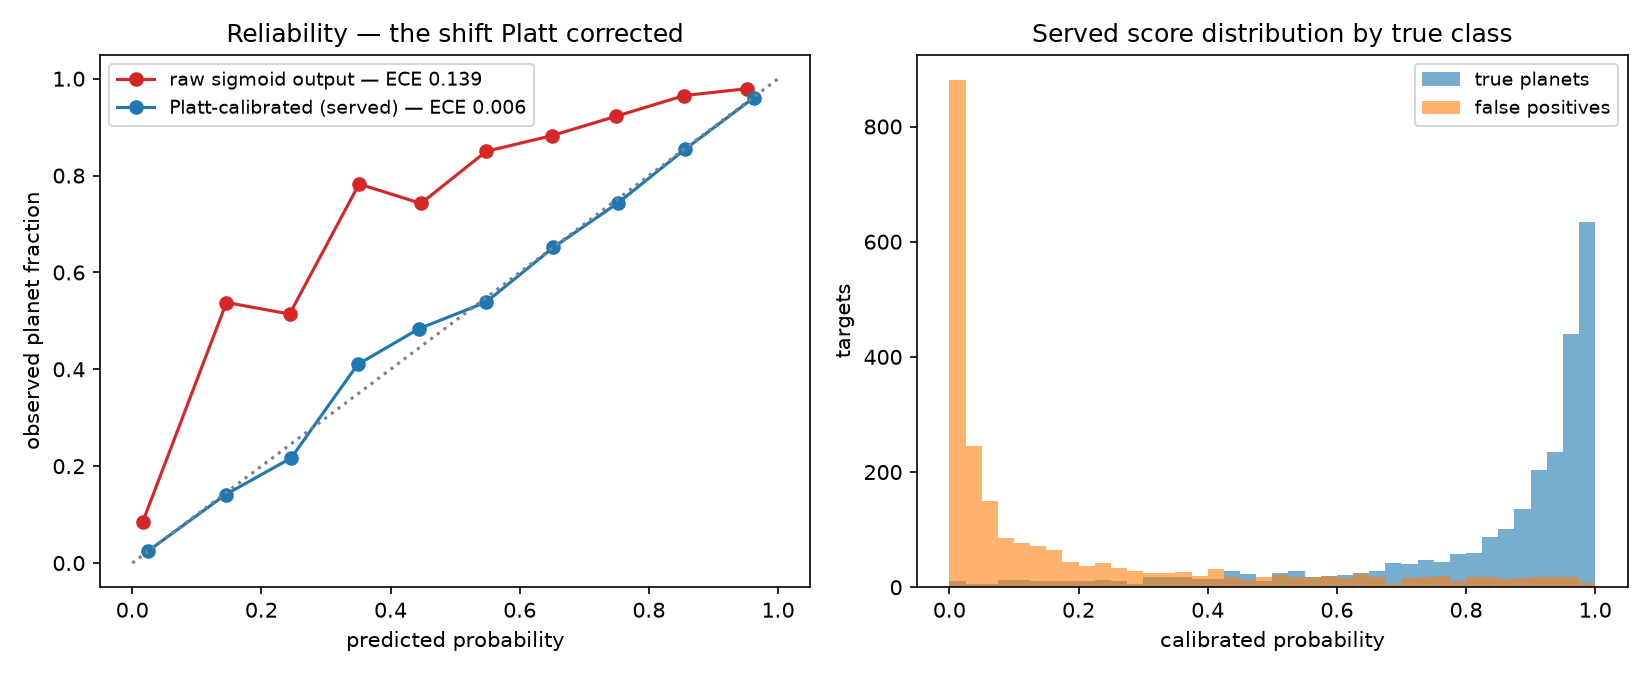
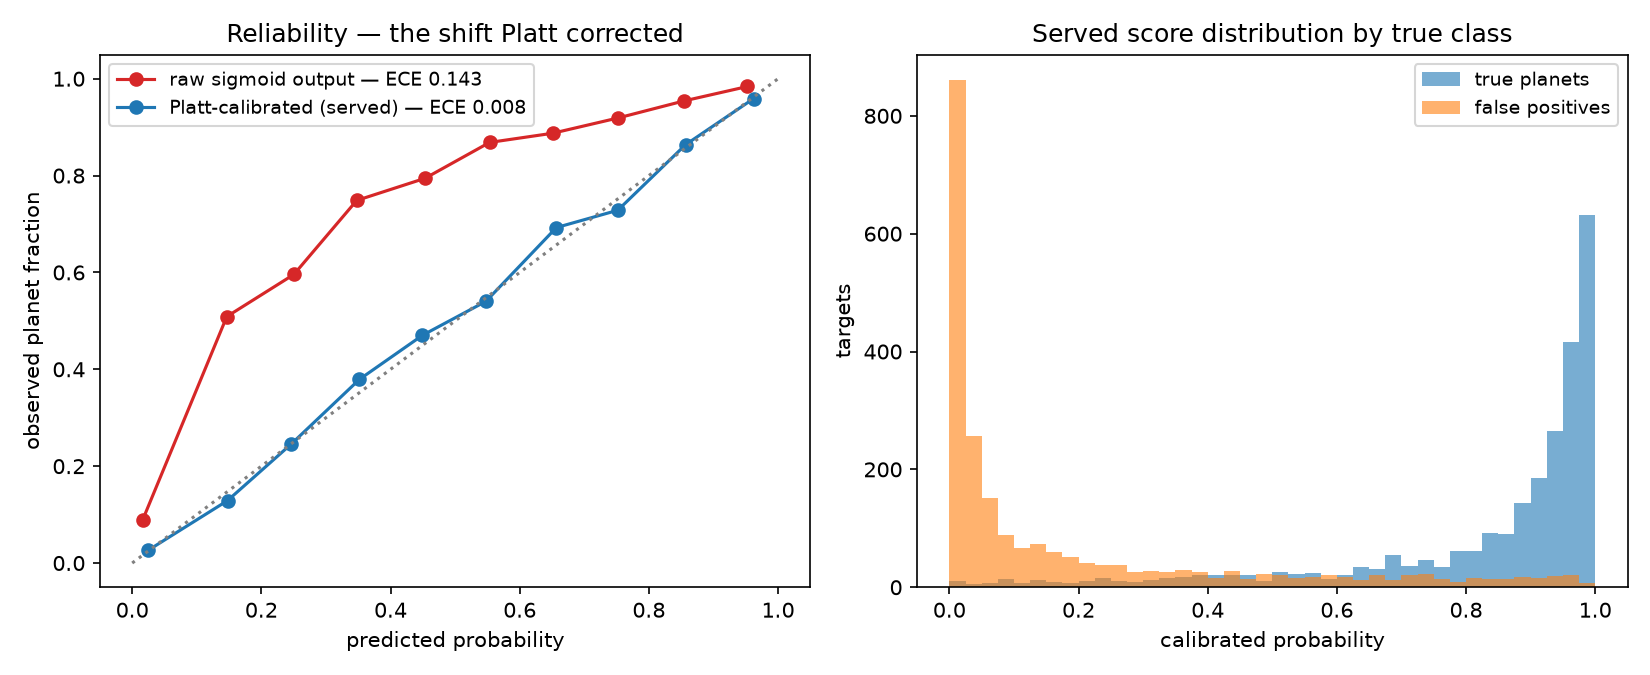
fix(serving): score what you ship — checkpoint reload + deterministic headline
Two measured serving-calibration bugs on cebb0fe6:

- fold checkpoints on disk differed from the in-memory weights that scored
  predictions.parquet (per-example drift up to 0.31; checkpoint AUC 0.9493
  vs parquet 0.9487 on fold 0). Trainer now reloads the checkpoint after
  fit() so metrics/calibrators/thresholds describe the shipped artefact;
  recalibrate_run.py --rescore backfills existing runs. cebb0fe6 rescored:
  AUC 0.9502, Brier 0.0882, pooled OOF ECE 0.0079.
- serving fed MC-Dropout means to calibrators fitted on deterministic
  scores (measured cost: pooled ECE 0.089 vs 0.007). The calibrated
  headline and per-fold dots now come from the deterministic pass; MC
  sampling contributes only prob_std.

In-sample probe: the raw-score shift exists on training rows too (mean prob
0.41 vs 0.53 base rate) — a property of the objective, absorbed by Platt.

diff --git a/pipeline/scripts/recalibrate_run.py b/pipeline/scripts/recalibrate_run.py
@@ -4,9 +4,13 @@ Validation scores are not persisted, so each fold's Platt calibrator is
 fitted on the pooled out-of-fold predictions of the *other* folds; fold f's
 own test rows never touch its fit, keeping the rewritten metrics clean.
 
+`--rescore` first regenerates each fold's prob_raw from its saved checkpoint
+(deterministic pass over the shards), for runs whose parquet was scored with
+in-memory weights that drifted from the shipped checkpoint.
+
 Usage (from the repository root):
 
-    python pipeline/scripts/recalibrate_run.py models/cv/<run_id>
+    python pipeline/scripts/recalibrate_run.py models/cv/<run_id> [--rescore]
 """
 
 from __future__ import annotations
@@ -84,14 +88,68 @@ def recalibrate_fold(fold_dir: Path, preds: pd.DataFrame, fold_idx: int) -> dict
     }
 
 
+def rescore_fold(fold_dir: Path, shard_dir: Path) -> None:
+    """Overwrite the fold parquet's prob_raw with the checkpoint's scores."""
+    import tensorflow as tf
+
+    from exoplanet_hunter.datasets import (
+        ShardMetadata,
+        Split,
+        aux_constants_from_pipeline,
+        list_shards,
+        load_index,
+        make_dataset,
+        make_split_table,
+    )
+
+    fold_preds = pd.read_parquet(fold_dir / "predictions.parquet").sort_values("row")
+    index = load_index(shard_dir)
+    codes = np.full(len(index), int(Split.TRAIN), dtype=np.int64)
+    codes[fold_preds["row"].to_numpy()] = int(Split.TEST)
+
+    bundle = joblib.load(fold_dir / "cnn_calibrator.joblib")
+    aux_pipeline = bundle.get("aux_pipeline")
+    ds = make_dataset(
+        list_shards(shard_dir),
+        split=Split.TEST,
+        metadata=ShardMetadata.load(shard_dir),
+        split_table=make_split_table(index["tic_id"].to_numpy(), codes),
+        aux_constants=aux_constants_from_pipeline(aux_pipeline) if aux_pipeline else None,
+        use_aux=aux_pipeline is not None,
+        batch_size=256,
+        seed=0,
+    )
+    model = tf.keras.models.load_model(str(fold_dir / "cnn_dualview.keras"), compile=False)
+    scores, labels = [], []
+    for feats, y in ds:
+        scores.append(np.asarray(model(feats, training=False)).squeeze())
+        labels.append(y.numpy())
+    if not np.array_equal(np.concatenate(labels), fold_preds["y_true"].to_numpy()):
+        raise SystemExit(f"{fold_dir.name}: stream order does not match the parquet — aborting")
+    drift = float(np.abs(np.concatenate(scores) - fold_preds["prob_raw"].to_numpy()).max())
+    fold_preds["prob_raw"] = np.concatenate(scores)
+    fold_preds.to_parquet(fold_dir / "predictions.parquet", index=False)
+    log.info(
+        "[%s] rescored from checkpoint (max drift from old prob_raw: %.4f)", fold_dir.name, drift
+    )
+
+
 def main() -> None:
     parser = argparse.ArgumentParser(description=__doc__)
     parser.add_argument("run_dir", type=Path, help="models/cv/<run_id> directory to recalibrate")
+    parser.add_argument(
+        "--rescore", action="store_true", help="Regenerate prob_raw from checkpoints"
+    )
+    parser.add_argument("--shards", type=Path, default=Path("data/processed/tfrecords"))
     args = parser.parse_args()
 
     fold_dirs = sorted(args.run_dir.glob("fold_*"))
     if not fold_dirs:
         raise SystemExit(f"no fold_* directories under {args.run_dir}")
+
+    if args.rescore:
+        for d in fold_dirs:
+            rescore_fold(d, args.shards)
 
     preds = pd.concat(
         [pd.read_parquet(d / "predictions.parquet") for d in fold_dirs], ignore_index=True

diff --git a/pipeline/src/exoplanet_hunter/scoring/ensemble.py b/pipeline/src/exoplanet_hunter/scoring/ensemble.py
@@ -8,13 +8,13 @@ with every member.
 
 Aggregation, chosen to match what the vetting console displays:
 
-  * per-fold prob   — the fold's MC-Dropout mean, temperature-calibrated
-                      (the "five dots").
+  * per-fold prob   — the fold's deterministic score, calibrated (the
+                      "five dots"); calibrators are fitted on deterministic
+                      scores, so MC means don't feed them.
   * prob_calibrated — mean of the per-fold calibrated probs (the headline).
-  * prob_mean       — mean of the raw (uncalibrated) fold means.
-  * prob_std        — total uncertainty: sqrt(mean within-fold MC variance
-                      + across-fold variance of the means). Both epistemic
-                      terms the report cares about, in one band.
+  * prob_mean       — mean of the raw (uncalibrated) deterministic scores.
+  * prob_std        — total uncertainty: sqrt(mean within-fold MC-Dropout
+                      variance + across-fold variance of the means).
   * threshold       — mean of the folds' F1-optimal thresholds.
 """
 
@@ -121,11 +121,14 @@ class ScoringEnsemble:
                 inputs["aux_features"] = member.aux_pipeline.transform(
                     aux_raw[None, :].astype(np.float32)
                 ).astype(np.float32)
+            # Calibrated headline from the deterministic pass: calibrators are
+            # fitted on deterministic scores, and feeding them MC means costs
+            # ~0.08 ECE. MC sampling contributes only the uncertainty band.
+            det = float(np.asarray(member.model(inputs, training=False)).squeeze())
             result = mc_dropout_predict(member.model, inputs, n_samples=n_mc)
-            mean = float(np.asarray(result.mean).squeeze())
-            raw_means.append(mean)
+            raw_means.append(det)
             mc_vars.append(float(np.asarray(result.std).squeeze()) ** 2)
-            calibrated.append(float(member.calibrator.predict(np.array([mean]))[0]))
+            calibrated.append(float(member.calibrator.predict(np.array([det]))[0]))
 
         return EnsemblePrediction(
             per_fold=calibrated,

diff --git a/pipeline/src/exoplanet_hunter/training/train.py b/pipeline/src/exoplanet_hunter/training/train.py
@@ -389,6 +389,11 @@ def _run_cnn_fold(
     )
     log_history(history.history, results_dir)
 
+    # Score what ships: the checkpoint on disk is the serving artefact, and
+    # in-memory weights after fit() are not guaranteed to match it (observed
+    # drift on cebb0fe6). All metrics/calibrators below describe this file.
+    model = tf.keras.models.load_model(str(ckpt_path), compile=False)
+
     # Unshuffled streams yield examples in ascending index-row order, so
     # sort the fold indices the same way for positional alignment with
     # predict() output.

diff --git a/HANDOVER.md b/HANDOVER.md
@@ -168,11 +168,22 @@ Audit targets, item by item:
    model numbers added; OPERATING.md calibrator/gate text corrected;
    architecture.md needed no change (method-agnostic).
 
-New findings logged during the audit, still open:
+New findings logged during the audit — both since resolved (2026-07-14):
 
-- `/score/{tic_id}` latency: per-request MAST download + BLS; a 185k-cadence
-  multi-sector target took >9.5 min. Fix with catalogue-ephemeris preference
-  + a sector/cadence cap (app phase).
-- Calibrators are fitted on deterministic validation predictions but applied
-  to MC-Dropout means at serving (`scoring/ensemble.py`) — quantify the
-  mismatch; root cause of the raw-score shift itself is still unexplained.
+- `/score/{tic_id}` latency: FIXED — ephemeris resolution is user >
+  catalogue > BLS (published ephemerides skip the search for known TOIs),
+  and BLS itself is bounded (astropy-spaced period grid capped at 5k trial
+  periods + cadence decimation). 169k-cadence target: never finished → ~25 s.
+- Serving calibration mismatch: FIXED — two compounding causes measured.
+  (1) Fold checkpoints on disk differed from the in-memory weights that
+  scored predictions.parquet (per-example drift up to 0.31); the trainer now
+  reloads the checkpoint before scoring ("score what you ship"), and
+  cebb0fe6 was rescored + recalibrated from its checkpoints
+  (`recalibrate_run.py --rescore`): AUC 0.9502, Brier 0.0882, ECE 0.0079.
+  (2) Serving fed MC-Dropout means to calibrators fitted on deterministic
+  scores — measured cost ~0.08 ECE; the calibrated headline now comes from
+  the deterministic pass, MC contributes only prob_std. Residual ~1e-3
+  per-request jitter (suspected single-example TF/Metal nondeterminism) is
+  immaterial. The raw-score shift itself is present in-sample (mean prob
+  0.41 vs 0.53 base rate on fold-0 train rows), so it is a property of the
+  training objective rather than a generalization gap — Platt absorbs it.